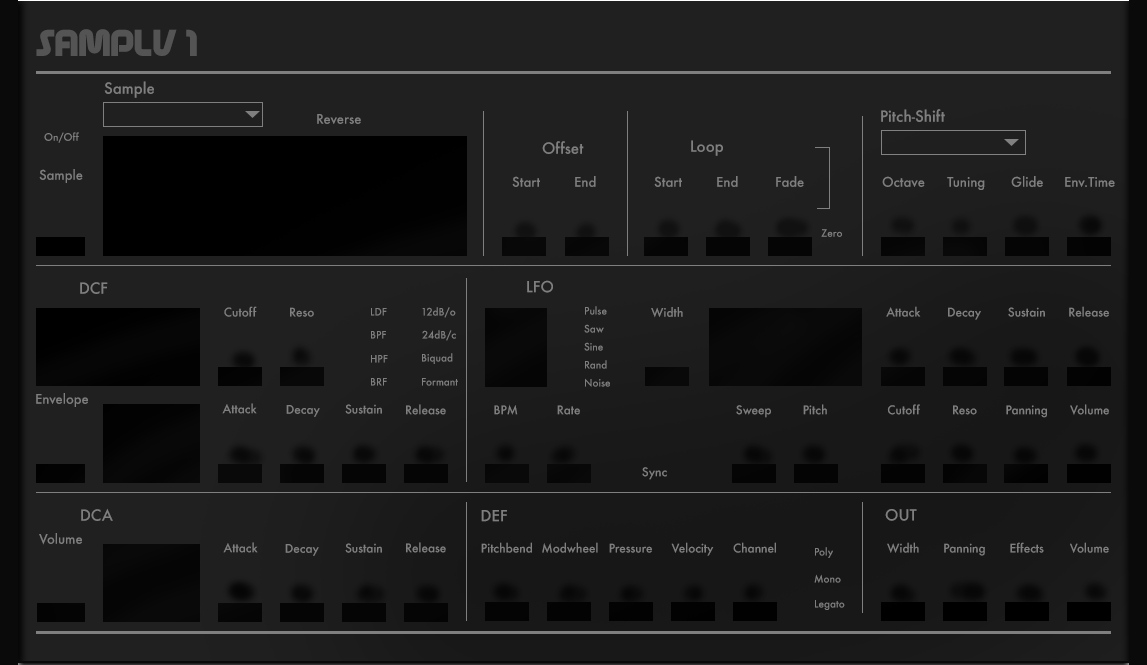
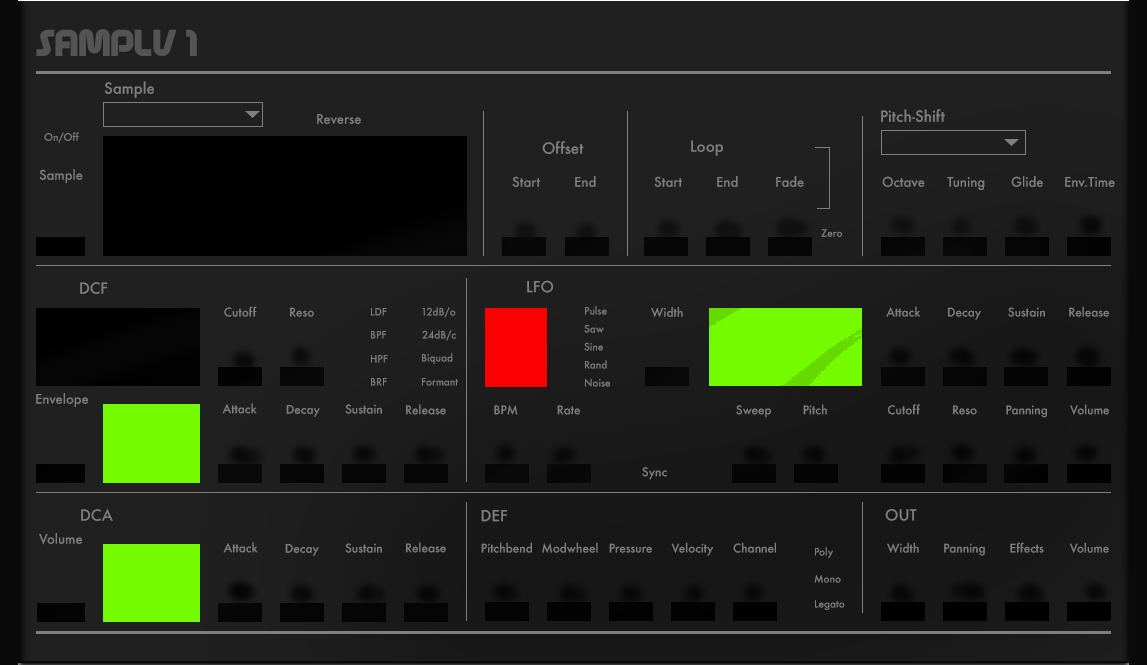
Add JS drawing of ADSR "polygons"

diff --git a/plugin-data/samplv1.lv2/modgui/javascript-samplv1.js b/plugin-data/samplv1.lv2/modgui/javascript-samplv1.js
@@ -1,0 +1,139 @@
+function (event) {
+    /* constants */
+    var dca_width = 98;
+    var dcf_width = 98;
+    var lfo_width = 153;
+    /* common */
+    var svg_height = 78;
+
+    function draw_adsr(elem, a, d, s, r) {
+        var svg = elem.svg('get');
+        svg.clear();
+
+        var quarter_width = elem.width() / 4;
+        var attack_w = a * quarter_width;
+        var decay_w = d * quarter_width;
+        var sustain_h = (1.0 - s) * svg_height;
+        var release_w = r * quarter_width;
+
+        var path = [
+            // start
+            [0, svg_height],
+            // attack
+            [attack_w, 0],
+            // decay
+            [attack_w + decay_w, sustain_h],
+            // sustain
+            [attack_w + decay_w + quarter_width, sustain_h],
+            // release
+            [attack_w + decay_w + quarter_width + release_w, svg_height],
+        ];
+
+        // setup gradient
+        var defs = svg.defs();
+        svg.linearGradient(defs, 'fadeBg', [[0, '#2e5033'], [1, '#1a2d1d']]);
+
+        // draw polygon
+        var g = svg.group({stroke: '#009515', strokeWidth: 2.0, fill: 'url(#fadeBg)'});
+        svg.polygon(g, path, {});
+    }
+
+    function setup_svg(elem, width) {
+        // enable svg element
+        elem.svg();
+        // setup svg size
+        var svg = elem.svg('get');
+        svg.configure({width: '' + width + 'px'}, false);
+        svg.configure({height: '' + svg_height + 'px'}, false);
+    }
+
+    if (event.type == 'start')
+    {
+        var symbol;
+
+        // cache relevant values locally
+        var values = event.data.values = {};
+        for (var i in event.ports)
+        {
+            symbol = event.ports[i].symbol;
+
+            if (symbol.endsWith('_ATTACK') ||
+                symbol.endsWith('_DECAY') ||
+                symbol.endsWith('_SUSTAIN') ||
+                symbol.endsWith('_RELEASE'))
+            {
+                values[symbol] = event.ports[i].value;
+            }
+        }
+
+        // get elements
+        var dca = event.icon.find('[mod-role="samplv1-dca-svg"]');
+        var dcf = event.icon.find('[mod-role="samplv1-dcf-svg"]');
+        var lfo = event.icon.find('[mod-role="samplv1-lfo-svg"]');
+
+        // setup svgs
+        setup_svg(dca, dca_width);
+        setup_svg(dcf, dcf_width);
+        setup_svg(lfo, lfo_width);
+
+        // initial drawing
+        draw_adsr(dca,
+                  values['DCA1_ATTACK'],
+                  values['DCA1_DECAY'],
+                  values['DCA1_SUSTAIN'],
+                  values['DCA1_RELEASE']);
+        draw_adsr(dcf,
+                  values['DCF1_ATTACK'],
+                  values['DCF1_DECAY'],
+                  values['DCF1_SUSTAIN'],
+                  values['DCF1_RELEASE']);
+        draw_adsr(lfo,
+                  values['LFO1_ATTACK'],
+                  values['LFO1_DECAY'],
+                  values['LFO1_SUSTAIN'],
+                  values['LFO1_RELEASE']);
+    }
+    else if (event.type == 'change')
+    {
+        if (event.symbol === undefined)
+            return;
+
+        // update cached values
+        if (event.symbol.endsWith('_ATTACK') ||
+            event.symbol.endsWith('_DECAY') ||
+            event.symbol.endsWith('_SUSTAIN') ||
+            event.symbol.endsWith('_RELEASE'))
+        {
+            var values = event.data.values;
+            values[event.symbol] = event.value;
+
+            // draw new polygons
+            /**/ if (event.symbol.startsWith('DCA1_'))
+            {
+                draw_adsr(event.icon.find('[mod-role="samplv1-dca-svg"]'),
+                          values['DCA1_ATTACK'],
+                          values['DCA1_DECAY'],
+                          values['DCA1_SUSTAIN'],
+                          values['DCA1_RELEASE']);
+            }
+            else if (event.symbol.startsWith('DCF1_'))
+            {
+                draw_adsr(event.icon.find('[mod-role="samplv1-dcf-svg"]'),
+                          values['DCF1_ATTACK'],
+                          values['DCF1_DECAY'],
+                          values['DCF1_SUSTAIN'],
+                          values['DCF1_RELEASE']);
+            }
+            else if (event.symbol.startsWith('LFO1_'))
+            {
+                draw_adsr(event.icon.find('[mod-role="samplv1-lfo-svg"]'),
+                          values['LFO1_ATTACK'],
+                          values['LFO1_DECAY'],
+                          values['LFO1_SUSTAIN'],
+                          values['LFO1_RELEASE']);
+            }
+        }
+    }
+}
+
+/* GLOBAL functions */

diff --git a/plugin-data/samplv1.lv2/modgui/icon-samplv1.html b/plugin-data/samplv1.lv2/modgui/icon-samplv1.html
@@ -91,6 +91,9 @@
         </div>
         <div class="samplv1-dcf">
             <div class="mod-control-supgroup">
+                <div class="samplv1-adsr">
+                    <div class="samplv1-svg" mod-role="samplv1-dcf-svg"/>
+                </div>
                 {{#controls.12}}
                 <div class="mod-knob samplv1-button samplv1-{{symbol}}" title="{{comment}}">
                     <div class="mod-button-image" mod-widget="switch" mod-role="input-control-port" mod-port-symbol="{{symbol}}"></div>
@@ -174,6 +177,9 @@
         </div>
         <div class="samplv1-lfo">
             <div class="mod-control-supgroup">
+                <div class="samplv1-adsr">
+                    <div class="samplv1-svg" mod-role="samplv1-lfo-svg"/>
+                </div>
                 {{#controls.22}}
                 <div class="mod-knob samplv1-button samplv1-{{symbol}}" title="{{comment}}">
                     <div class="mod-button-image" mod-widget="switch" mod-role="input-control-port" mod-port-symbol="{{symbol}}"></div>
@@ -285,6 +291,9 @@
         </div>
         <div class="samplv1-dca">
             <div class="mod-control-supgroup">
+                <div class="samplv1-adsr">
+                    <div class="samplv1-svg" mod-role="samplv1-dca-svg"/>
+                </div>
                 {{#controls.38}}
                 <div class="mod-knob samplv1-button samplv1-{{symbol}}" title="{{comment}}">
                     <div class="mod-button-image" mod-widget="switch" mod-role="input-control-port" mod-port-symbol="{{symbol}}"></div>

diff --git a/plugin-data/samplv1.lv2/modgui/stylesheet-samplv1.css b/plugin-data/samplv1.lv2/modgui/stylesheet-samplv1.css
@@ -638,3 +638,39 @@
 .samplv1{{{cns}}} .mod-control-group .samplv1-def .mod-knob.samplv1-DEF1_MONO.pos3 {
     top: -11px;
 }
+
+/* = SVG
+================================================================= */
+
+.samplv1{{{cns}}} .mod-control-group .samplv1-adsr {
+    position: absolute;
+    border: none;
+    display: inline-block;
+    background-color: #000;
+    border: 1px solid #666;
+}
+
+.samplv1{{{cns}}} .mod-control-group .samplv1-svg {
+    position:relative;
+}
+
+.samplv1{{{cns}}} .mod-control-group .samplv1-dca .samplv1-adsr {
+    top: 46px;
+    left: 82px;
+    width: 100px;
+    height: 80px;
+}
+
+.samplv1{{{cns}}} .mod-control-group .samplv1-dcf .samplv1-adsr {
+    top: 184px;
+    left: 82px;
+    width: 100px;
+    height: 80px;
+}
+
+.samplv1{{{cns}}} .mod-control-group .samplv1-lfo .samplv1-adsr {
+    top: 40px;
+    left: 237px;
+    width: 155px;
+    height: 80px;
+}
